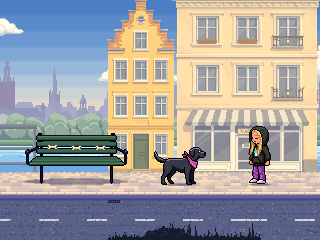
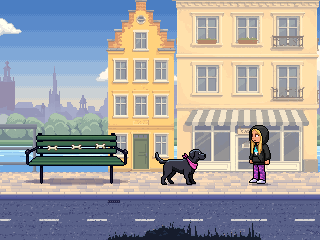
Gable and cafe: review round 2 PASS (9/9 each), its optional nit closed (flower box notch), frames and cards regenerated; both at review, next the board
Claude-Session: https://claude.ai/code/session_01FoBYgyQXP6Y37ftCiYULqt

diff --git a/tools/build_rw_gable.py b/tools/build_rw_gable.py
@@ -186,6 +186,9 @@ def part_flowerbox(w=50):
         for yy, row in enumerate(head):
             for xx, ch in enumerate(row):
                 if ch != '.': p.put(hx + xx, hy + yy, 'fl' if ch == 'f' else 'fl_dk')
+    for y in range(2, 6):                                           # no 1 px glass notch between a leaf and a head
+        for x in range(1, w - 1):                                   # (review round 2: x 36, row 2 in both boxes)
+            if p.a[y, x] < 0 and p.a[y, x - 1] >= 0 and p.a[y, x + 1] >= 0: p.put(x, y, 'lf')
     return p
 
 

diff --git a/art/gen/reviews/rw_gable.md b/art/gen/reviews/rw_gable.md
@@ -1,0 +1,17 @@
+Reviewer: independent agent, night of 25 Oct (did not build these pieces)
+Round 2, on branch head 139dc79 (round 1 is kept in rw_gable_round1.md). Method as in round 1: 6x to 30x crops of the PNG (NEAREST), a pixel-by-pixel compare of every repeated part, a 4-neighbour lone-pixel scan on the file, the regenerated frames and card, and asset_qa --layer back --level rw --fade 0.28 --building: PASS (20 colours, alpha 255 everywhere, check_backdrop OK, top at game y -6).
+1. Scale: PASS - Unchanged and right: door leaves 98 px (rows 79-176, x 87-132) under a 12 px transom, ground window opening 46x72 (x 18-63, rows 72-143), socle 16 (rows 164-179), slot 148x180. Pepper 51 px beside the 98 px door in the regenerated pepper_bench frame. No string course, so the storey is implied (upper sills at game y 20, about 145 by HOME's sill-over-floor line); same remark as round 1, nothing visible on screen contradicts it.
+2. Layer: PASS - asset_qa: darkest 139, median 197, light 234, contrast 95 (limit 120), unchanged by the fixes. In the regenerated greyscale frame the gable is lighter than the bench and Pepper; the door (about 135) is its darkest mass and Pepper still reads in front of it.
+3. Outline: PASS - qa outline 0 %. The only ink is inside the piece: the two wall anchors (x 10-14 and x 67-71, rows 32-48) and the 1 px door meeting line (x 109, rows 79-176). Edges are darker shades of their own material.
+4. Shapes: PASS - Round 1 defects verified gone. (a) Flower heads are centred: heads x 22-58 in box x 17-64 and x 91-127 in box x 86-133, margins 5 left and 6 right in both. (b) The anchors are symmetric about the window axis (centres 12 and 69, each 28.5 px from x 40.5), pixel-identical to each other (only the lesene's shadow at x 8-9 differs on the left), and the right one is now clear of the pediment: anchor x 67-71, its shadow to x 73, three wall columns (x 74-76), pediment end at x 77. Repeats re-measured: the two upper windows with surrounds, sills and boxes (x 12-69 against x 81-138, rows 0-31) pixel-identical; the 8 ground-window panes identical across both casements and across the three lower rows; transom lights 1-3 identical (light 0 differs only by its 3 px reveal, by design; the streak moved to u+v 8-9 and all four read as the same 2 px diagonal); both pilasters identical (x 80-86 against x 133-139); the pediment arc is symmetric about x 109.5 with clean steps (16 px crown, then 6-5-3-3-2-2-3-1 px runs each side), and its end pixels are now st_sh like the rest of the soffit (no st_dk dabs). The upper surround is now 43 px tall and ends under the 3 px sill, so nothing sticks out below it.
+5. Shading: PASS - Round 1 specks verified gone: (19,143) is st_hi like its row (the corner is clean), nothing under the sills at (14,29) and (83,29) (the surround is 43 px and the 3 px sill covers its last row), and both knobs are the same 2x2 brass with a 2 px dr_dk shade under them (x 106-107 and x 112-113, row 126; the right one touches the panel edge at x 114, as the leaf geometry gives). One light direction, upper left; every projecting part throws its 2 px shadow down and right; ramps of 3-4 per material. The new leaf band (top 2/3 rows, flat green, scalloped) is clean, and the new socle course joint (st_sh row 172, st_hi row 173, full width from x 0 to the portal and right of it) gives the base HOME's two-course grain. Remaining nit, not blocking: where the scalloped leaf band dips beside a flower head there is a 1 px pocket of glass at (53,17) and (122,17) (leaf on the left, head on the right, glint above); it reads as glass seen behind the plant, but one more leaf pixel at those two spots would close it.
+6. Palette: PASS - All 20 colours are in riverwalk.gpl v3 (re-checked one by one). Ramps per material, whites white (247,249,250), darks neutral (ink 40,42,54; iron 86,88,100); the one warm dark is the door's oak shade. Counts only with the owner's board approve of v3, as for HOME.
+7. View: PASS - Front-on elevation; thin lit caps (pediment, sills, hood, box rim), 3 px step, no tops, sides or insides.
+8. Fit: PASS - At 1x and 3x in the regenerated frames and card, and at 4x beside rw_home: the same 1 px pixel, flat fills, clean edges, as crisp as HOME and with more relief (portal, entablature, arc, eared surrounds with hood, boxes, cast shadows, socle courses). The balanced anchors and the centred flowers remove the last composition faults. Not flat in the owner's sense; the plaster field is flat by rule.
+9. Read: PASS - A friendly Old Town house at once: orange wall, white window, oak double door under a stone portal, red flowers in the upper boxes; no text or logos. The S-shaped anchors read as iron scrolls (taste point only, as in round 1).
+
+Fix list: none blocking. Optional: close the two glass pockets (53,17) and (122,17) with one leaf pixel each in part_flowerbox (the scallop dip at box x 36).
+
+Verdict: all round 1 defects are gone and nothing new of weight was introduced by the extra changes (leaf band, pediment ends, socle joint, transom streak). It meets the rw_home bar and answers the "super flat" complaint. Ready for the owner's card.
+
+Producer note after round 2: the optional nit closed in the builder (part_flowerbox fills a 1 px notch between a leaf and a head): leaf pixels at (53,17) and (122,17), and the same notch at (29,17), (43,17), (98,17), (112,17). Six pixels, all leaf green (86,132,66); nothing else changed; asset_qa PASS, 20 colours.

diff --git a/art/gen/reviews/rw_cafe.md b/art/gen/reviews/rw_cafe.md
@@ -1,0 +1,15 @@
+Reviewer: independent agent, night of 25 Oct (did not build these pieces)
+Round 2, on branch head 139dc79 (round 1 is kept in rw_cafe_round1.md). Method as in round 1: 7x to 16x crops of the PNG (NEAREST), a pixel-by-pixel compare of every repeated part, a 4-neighbour lone-pixel scan on the file, the regenerated frames and card, and asset_qa --layer back --level rw --fade 0.28 --building: PASS (20 colours, alpha 255 everywhere, check_backdrop OK, top at game y -6).
+1. Scale: PASS - Unchanged and right: door leaf 98 px (rows 79-176, x 78-123) under a 14 px transom (rows 63-76); shop lights 27x74; riser panels 27x21; granite base 16; slot 124x180. Ground storey to the underside of the cornice band is 174 - 32 = 142 px (HOME 144-145). Pepper 51 px and Mia about 59 px beside the 98 px door in the regenerated frames.
+2. Layer: PASS - asset_qa: darkest 159, median 188, light 235, contrast 76 (limit 120), unchanged. The lightest of the three facades in the regenerated greyscale frame. Mia reads in front of the cafe: in colour her black hoodie sits on pale sage and cream, in greyscale her hood and legs separate cleanly from the pale riser panel, pier and granite behind her (hoodie luma about 23 against a wall of about 180, legs 105 against 196). In greyscale only the cream awning stripes show, which still reads as an awning.
+3. Outline: PASS - qa outline 0 %. The only ink is the two lamp cords (x 22 and x 52, rows 60-80), inside the piece; edges are darker shades of their own material.
+4. Shapes: PASS - Re-measured after the fixes: the two upper windows with frames, sills and corbels (x 11-64 against 70-123, rows 0-31) are pixel-identical, and they are now 44 px tall (frame 48), so the image's top row (row 0) is a clean white meeting-rail row instead of a cut pane edge: nothing odd at the top, and none of it is on screen anyway (rows 0-5 are above game y 0). The two shop lights below the awning (27x56, rows 77-132) with their lamps and cords are identical, as are the two riser panels (27x21, rows 140-160); the awning is 7 stripes of exactly 10 px (x 2-71), red stripes identical to each other and cream stripes identical to each other except where the cast shadow meets the piers and the dark end edge at x 71, every scallop the same stamp; transom lights 1 and 2 identical (light 0 only by its 3 px reveal, by design); granite courses 26 px with joints staggered 10 px. Straight lines straight, diagonals clean 1:1 steps.
+5. Shading: PASS - All eight round 1 specks verified gone. (a) (15,21) and (74,21): the reveal remap now covers all 44 rows, the corner is cr_sh like its row. (b) The corbels (x 13-16, 59-62, 72-75, 118-121; rows 26-29): the underside is one cr_sh run, no cr_dk dab, and no lone cr_sh pixel at (13,28), (59,28), (72,28), (118,28). (c) (4,77): the awning's cast shadow no longer lands on the left pier (shade_cast x_min 6), so the shadow starts cleanly at the frame's left edge, x 6, instead of leaving a sliver on the pier; the right end still shades the middle pier at x 72-73, a deliberate simplification, not a defect. (d) (123,80): the door header's right edge column is one tone (sg_sh, rows 78-84), no dark dab. The 4-neighbour scan now finds only the designed pairs: the 14 scallop corner pixels at row 75 (x 3, 10, 13, 20, 23, ... 70) and the 6 diagonal lamp-glint pixels at (19-21, 81-83) and (49-51, 81-83). Light is upper left throughout; frames lit top and left, shaded right and bottom; the awning's 2x3 px shadow falls down and right.
+6. Palette: PASS - All 20 colours are in riverwalk.gpl v3 (re-checked one by one); whites white (247,249,250), darks neutral (ink 40,42,54; iron 86,88,100), granite shared with HOME, reds shared with the gable. Counts only with the owner's board approve of v3.
+7. View: PASS - Front-on elevation; the awning is its outward-sloping cloth (front-facing in an elevation) plus valance and roller box, not a view from above; the shop glass is empty (no insides); no tops or sides.
+8. Fit: PASS - At 1x and 3x in the regenerated frames and card, next to the gable, and at 4x beside rw_home: the same 1 px pixel, flat fills, clean edges, stamped repeats; as crisp and as dense as HOME, the awning with its scallop shadows and the two lamps being the focus. The two big glass lights are the flattest area, which "no insides" allows. Not flat in the owner's sense.
+9. Read: PASS - A cafe at once: striped awning, hanging lamps, glazed door, no text, logos or sign (the fascia is blank). Mia is easy to find in front of it in colour and in greyscale. Taste point only: with a blank fascia and empty windows only the awning and lamps say "cafe" to a child.
+
+Fix list: none.
+
+Verdict: every round 1 defect is gone, the changes to the window height, corbels, door header and awning shadow introduced nothing new, and the lone-pixel scan finds only designed details. It meets the rw_home bar, is not flat, and Mia reads in front of it. Ready for the owner's card.

diff --git a/CHANGELOG.md b/CHANGELOG.md
@@ -10,6 +10,7 @@ Each delivered build is a git tag. `git checkout v0.1` goes back to any of them.
 - **Palette v3 (art/palettes/riverwalk.gpl, 109 colours, was 86):** `tools/make_palette.py` keeps rw_gable and rw_cafe whole as their ramps (orange-ochre plaster, grey sandstone, oak, geranium; cream plaster, sage paint, awning red), run as `make_palette.py riverwalk 109` (64 kept + v2's 45 from the pool). It also picks up the round-2 polish of rw_home and rw_lime. Every colour of both pieces is in v3.
 - **Pipeline and review (docs/review/25oct-night/rw_street/):** art/gen/jobs/rw_gable.json and rw_cafe.json (family rw_street_backdrop, tier C); both at `ingame` (next: the independent review, then the board). Frames: screen 12 before (base 80ec97f) and after at 1x, the 3x colour | greyscale sheet, before/after at 3x (screen 12 and the approach from screen 11), Pepper beside the bench (1x, 3x), and both pieces at 5x beside the approved bench, bin and lamp (qa_card leaves that panel out for art over 160 px tall). Cards: cards/PASS_rw_gable.png, cards/PASS_rw_cafe.png (`out/qa_rw_street.json`).
 - **Review round 1 fixes (art/gen/reviews/rw_gable_round1.md, rw_cafe_round1.md), in the builders:** gable: geranium heads centred in the boxes (margins 5 and 6), leaf band one row higher; the right wall anchor at x 67 (symmetric about the window axis, 3 px clear of the pediment); reveal remaps shade the white wood only (no darker corner at (19,143) or (63,73)); the upper surrounds end under the sills ((14,29), (83,29)); both door knobs alike, 2 x 2 brass with a 2 px shade; no dark dabs at the pediment's ends; the transom's sky streak clear of the reveal corner; one course joint in the socle. Cafe: the upper windows' reveal covers the whole window ((15,21), (74,21)) and the top edge now cuts their meeting rail (no cut streak fragments on row 0); the corbels' undersides one cr_sh run; the awning's shadow kept off the left pier ((4,77)); the door header's edge column stays one tone ((123,80)). Both 0 lone pixels (lone_mask), same 20 colours each (palette v3 unchanged), asset_qa PASS. Frames and cards regenerated. Checks: PEPPER UNCHANGED, BACKDROP OK, Tiled PASSED, flow 125/125, physics 54/54, QA 0 problems.
+- **Review round 2 (independent agent, at 139dc79):** both pieces PASS all 9 items (art/gen/reviews/rw_gable.md, rw_cafe.md). Its one optional nit closed by the producer: a 1 px glass notch between the leaf band and a geranium head, three per flower box (tools/build_rw_gable.py part_flowerbox fills it; six leaf pixels, nothing else). Frames of screen 12 and both cards regenerated; `tools/pipeline.py`: both at review, next the board.
 
 ## Branch `art/rw-sample-screen`: the River Walk sample screen (screen 1, Home), 25 Oct
 - **House (rw_home.png, 184 x 180, tier C, 0 credits):** `tools/build_rw_home.py` builds HOME at true scale from parts drawn once and stamped: double door 46 x 98 with raised panels and a fanlight, sandstone surround with entablature and keystone, a three-pane-row window with tie-back curtains, sill, corner quoins, granite plinth and step, string course at 147 px, the upper floor's window bottoms, wall lantern, drainpipe. Volume from the light (sun upper left): every part that stands out of the wall drops a 2-3 px shadow, the openings are recessed. 18 colours, asset_qa PASS (0 % lone pixels, windows identical). Top at y -5: never on screen. Replaces `building` on screen 1 (the old file stays).
